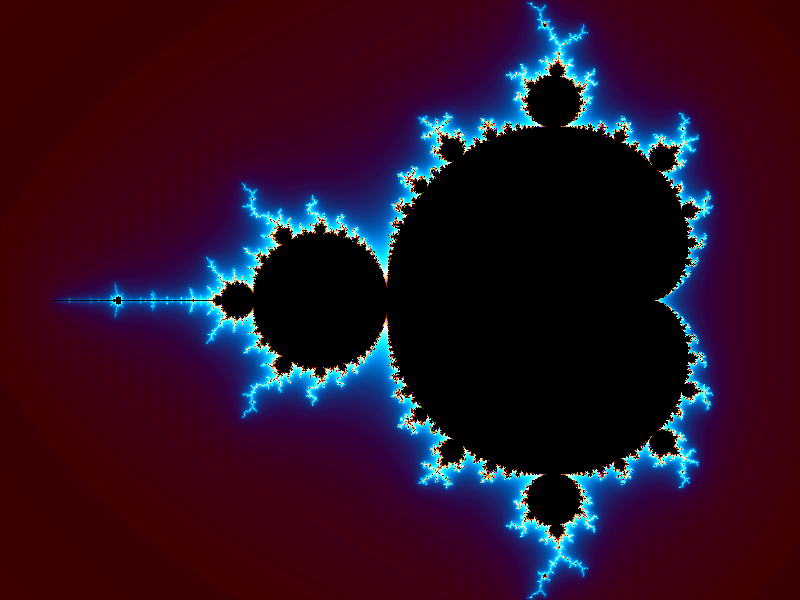
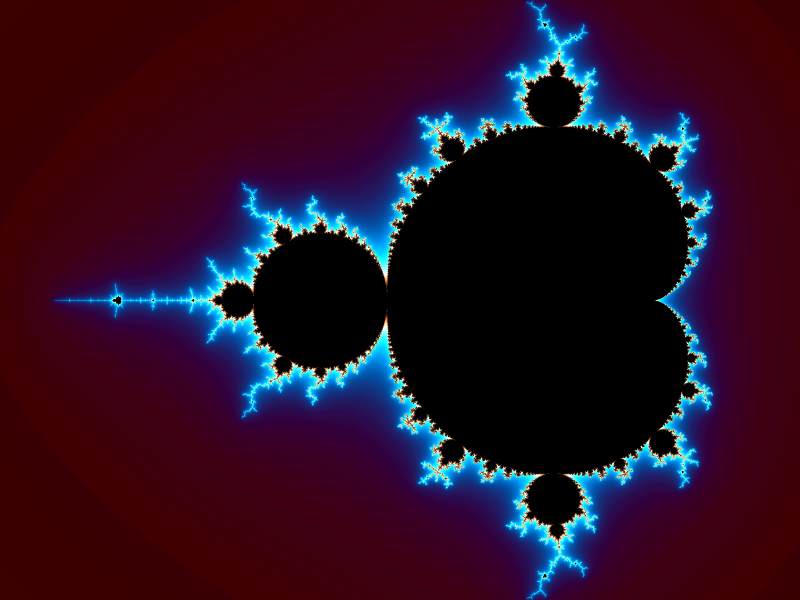
Add supersampling

diff --git a/src/main.cpp b/src/main.cpp
@@ -27,11 +27,13 @@ namespace ins
 
 bool processFile(
   boost::filesystem::path output,
-  boost::property_tree::ptree const& scene,
+  boost::property_tree::ptree const& ptree,
   TaskParameters const& pp
 )
 {
 	namespace bpt = boost::property_tree;
+
+	bool flag = false;
 
 	std::string type; // Scene type
 	Image image;
@@ -39,25 +41,33 @@ bool processFile(
 	{
 		image.width = 800;
 		image.height = 600;
-		if (auto dimensions = ptree_getArray_optional<int>(scene, "dimensions"))
+		if (auto dimensions = ptree_getArray_optional<int>(ptree, "dimensions"))
 		{
 			image.width = dimensions.get()[0];
 			image.height = dimensions.get()[1];
 		}
-		type = scene.get<std::string>("type", type);
+		type = ptree.get<std::string>("type", type);
 		image.pixelsR = new uint8_t[image.width * image.height];
 		image.pixelsG = new uint8_t[image.width * image.height];
 		image.pixelsB = new uint8_t[image.width * image.height];
 		image.pixelsA = new uint8_t[image.width * image.height];
 	}
-	// Read Gradient
+
+	std::shared_ptr<Scene> scene;
+	std::shared_ptr<Sampler> sampler;
 
 	typedef boost::gil::rgba8_image_t::value_type Pixel;
 	static_assert(sizeof(Pixel) == sizeof(uint32_t), "Must be of RGBA8 format");
 
-	if (type == "Mandelbrot")
+	Gradient gradient = readGradient(ptree, "gradient");
+
+	// Load Scene
+	if (type == "Test")
 	{
-		Gradient gradient = readGradient(scene, "gradient");
+		scene = std::shared_ptr<Scene>(new SceneTest(&gradient));
+	}
+	else if (type == "Mandelbrot")
+	{
 		real centreX = -.7;
 		real centreY = 0;
 		real radius = 1.5;
@@ -65,7 +75,7 @@ bool processFile(
 		int cycles = 16;
 		real escapeRadius = 20;
 
-		if (auto tree = scene.get_child_optional("Mandelbrot"))
+		if (auto tree = ptree.get_child_optional("Mandelbrot"))
 		{
 			if (auto centre = ptree_getArray_optional<real>(tree.get(), "centre"))
 			{
@@ -77,26 +87,43 @@ bool processFile(
 			escapeRadius = tree->get<real>("escapeRadius", escapeRadius);
 		}
 		real diffY = radius * (image.height / (real) image.width);
-		Mandelbrot m = Mandelbrot(&gradient, image.width, image.height,
-		                          complex(centreX - radius, centreY - diffY),
-		                          complex(centreX + radius, centreY + diffY),
-		                          iterations, escapeRadius);
-		Sampler s = Sampler(image.width, image.height, &m);
-		render(&image, pp, &s);
-	}
-	else if (type == "Test")
-	{
-		Gradient gradient = readGradient(scene, "gradient");
-		SceneTest st(&gradient);
-		Sampler s = Sampler(image.width, image.height, &st);
-		render(&image, pp, &s);
+		scene = std::shared_ptr<Scene>(new Mandelbrot(&gradient, image.width, image.height,
+		                               complex(centreX - radius, centreY - diffY),
+		                               complex(centreX + radius, centreY + diffY),
+		                               iterations, escapeRadius));
 	}
 	else
 	{
 		std::cerr << "Fatal: Unknown Scene type: " << type << std::endl;
-		return false;
+		goto exit;
 	}
 
+	// Load sampler
+	if (auto tSampler = ptree.get_child_optional("sampler"))
+	{
+		std::string type = tSampler->get<std::string>("type");
+		if (type == "Simple")
+		{
+			sampler = std::shared_ptr<Sampler>(new SamplerSimple(image.width, image.height, scene));
+		}
+		else if (type == "Super")
+		{
+			sampler = std::shared_ptr<Sampler>(new SamplerSuper(image.width, image.height, scene,
+			                                   tSampler->get<int>("spp", 8),
+			                                   tSampler->get<unsigned long>("seed", 0)
+			                                                   ));
+		}
+		else
+		{
+			std::cerr << "Fatal: Unknown Sampler type: " << type << std::endl;
+			goto exit;
+		}
+	}
+	else
+	{
+		sampler = std::shared_ptr<Sampler>(new SamplerSuper(image.width, image.height, scene, 8, 0));
+	}
+	render(&image, pp, sampler.get());
 	boost::gil::png_write_view(output.string(),
 	                           boost::gil::planar_rgba_view(image.width,
 	                               image.height,
@@ -107,12 +134,13 @@ bool processFile(
 	                               image.width)
 	                          );
 
+exit:
 	delete[] image.pixelsR;
 	delete[] image.pixelsG;
 	delete[] image.pixelsB;
 	delete[] image.pixelsA;
 
-	return true;
+	return flag;
 }
 
 }
@@ -137,7 +165,7 @@ int main(int argc, char* argv[])
 		("output,o", bpo::value<std::string>()->default_value(""), "Output file")
 		("input,i", bpo::value<std::string>(), "Input File")
 		("threads,t", bpo::value<int>()->default_value(0, "Automatic"), "Number of Threads")
-		("bucketsize,b", bpo::value<int>()->default_value(16), "Size of Rendering Chunk")
+		("bucketsize,b", bpo::value<int>()->default_value(32), "Size of Rendering Chunk")
 		;
 		bpo::store(bpo::parse_command_line(argc, argv, desc), options);
 
@@ -166,10 +194,10 @@ int main(int argc, char* argv[])
 	pp.nThreads = options["threads"].as<int>();
 	pp.bucketSize = options["bucketsize"].as<int>();
 
-	boost::property_tree::ptree scene;
-	boost::property_tree::read_json(input.c_str(), scene);
+	boost::property_tree::ptree ptree;
+	boost::property_tree::read_json(input.c_str(), ptree);
 
-	if (processFile(output, scene, pp))
+	if (processFile(output, ptree, pp))
 		return EXIT_NORMAL;
 	else
 		return EXIT_FAILURE;

diff --git a/src/sampling.hpp b/src/sampling.hpp
@@ -1,0 +1,70 @@
+#ifndef INSULA__SAMPLING_HPP_
+#define INSULA__SAMPLING_HPP_
+
+#include <memory>
+#include <random>
+
+#include "util/vector.hpp"
+#include "scene/Scene.hpp"
+
+namespace ins
+{
+
+class Sampler
+{
+public:
+	Sampler(int width, int height, std::shared_ptr<Scene> scene):
+		width(width), height(height),
+		invWidth(1 / (real) width), invHeight(1 / (real) height),
+		scene(scene)
+	{}
+	virtual ~Sampler() = default;
+
+	/**
+	 * @brief Obtain the color at the given pixel coordinates
+	 */
+	virtual Color4 at(Vector2i const&) const = 0;
+
+protected:
+	int width, height;
+	real invWidth, invHeight;
+	std::shared_ptr<Scene> scene;
+};
+
+/**
+ * @brief Renders with only one sample/pixel.
+ */
+class SamplerSimple final: public Sampler
+{
+public:
+	SamplerSimple(int width, int height, std::shared_ptr<Scene> scene):
+		Sampler(width, height, scene)
+	{
+	}
+
+	Color4 at(Vector2i const&) const override;
+};
+
+class SamplerSuper final: public Sampler
+{
+public:
+	/**
+	 * @param[in] spp Sample/Pixel
+	 */
+	SamplerSuper(int width, int height, std::shared_ptr<Scene> scene,
+	             int spp, unsigned long seed);
+	~SamplerSuper();
+
+	Color4 at(Vector2i const&) const override;
+private:
+	static std::uniform_real_distribution<real> randDist;
+
+	int spp;
+	real invSpp;
+	real* samplesX;
+	real* samplesY;
+};
+
+} // namespace ins
+
+#endif // !INSULA__SAMPLING_HPP_

diff --git a/src/sampling.cpp b/src/sampling.cpp
@@ -1,0 +1,53 @@
+#include "sampling.hpp"
+
+#include <cassert>
+#include <iostream>
+
+namespace ins
+{
+
+Color4 SamplerSimple::at(Vector2i const& v) const
+{
+	complex z(
+	  v.x() / (real) width,
+	  v.y() / (real) height
+	);
+	return scene->sample(z);
+}
+
+std::uniform_real_distribution<real> SamplerSuper::randDist(-.5, .5);
+
+SamplerSuper::SamplerSuper(int width, int height, std::shared_ptr<Scene> scene,
+                           int spp, unsigned long seed):
+	Sampler(width, height, scene), spp(spp), invSpp(1 / (real) spp),
+	samplesX(new real[spp]), samplesY(new real[spp])
+{
+	assert(spp > 0);
+	std::mt19937 engine(seed);
+	for (int i = 0; i < spp; ++i)
+	{
+		samplesX[i] = randDist(engine);
+		samplesY[i] = randDist(engine);
+	}
+}
+SamplerSuper::~SamplerSuper()
+{
+	delete[] samplesX;
+	delete[] samplesY;
+}
+Color4 SamplerSuper::at(Vector2i const& v) const
+{
+	Color4 sample(0, 0, 0, 0);
+	for (int i = 0; i < spp; ++i)
+	{
+		complex z(
+		  (v.x() + samplesX[i]) / (real) width,
+		  (v.y() + samplesY[i]) / (real) height
+		);
+		sample += scene->sample(z);
+	}
+	sample *= invSpp;
+	return sample;
+}
+
+} // namespace ins

diff --git a/src/integration.hpp b/src/integration.hpp
@@ -3,34 +3,19 @@
 
 #include <functional>
 
+#include "sampling.hpp"
 #include "core/Image.hpp"
 #include "core/TaskParameters.hpp"
 #include "core/insula.hpp"
-#include "scene/Scene.hpp"
 
 namespace ins
 {
 
-class Sampler
-{
-public:
-	Sampler(int width, int height, Scene* scene):
-		width(width), height(height),
-		scene(scene)
-	{}
-
-	Color4 at(Vector2i const&) const;
-private:
-	int width, height;
-	Scene* scene;
-};
-
-
 /**
+ * @brief Renders the image using the given sampler.
  * @warning Image must be pre-allocated
  */
-void render(Image* const, TaskParameters const&,
-            Sampler* const);
+void render(Image* const, TaskParameters const&, Sampler* const);
 
 
 } // namespace ins

diff --git a/src/util/vector.hpp b/src/util/vector.hpp
@@ -75,6 +75,24 @@ operator*(T l, Vector4<T> const& v) noexcept
 {
 	return Vector4<T>(l * v(0), l * v(1), l * v(2), l * v(3));
 }
+template <typename T> inline Vector4<T>&
+operator+=(Vector4<T>& v0, Vector4<T> const& v1) noexcept
+{
+	v0(0) += v1(0);
+	v0(1) += v1(1);
+	v0(2) += v1(2);
+	v0(3) += v1(3);
+	return v0;
+}
+template <typename T> inline Vector4<T>&
+operator*=(Vector4<T>& v, T l) noexcept
+{
+	v(0) *= l;
+	v(1) *= l;
+	v(2) *= l;
+	v(3) *= l;
+	return v;
+}
 template <typename T> constexpr Vector4<T>
 clamp01(Vector4<T> const& v) noexcept
 {

diff --git a/src/integration.cpp b/src/integration.cpp
@@ -8,14 +8,6 @@
 namespace ins
 {
 
-Color4 Sampler::at(Vector2i const& v) const
-{
-	complex z(
-	  v.x() / (real) width,
-	  v.y() / (real) height
-	);
-	return scene->sample(z);
-}
 void render(Image* const image, TaskParameters const& pp,
             Sampler* const sampler)
 {

diff --git a/src/scene/Scene.hpp b/src/scene/Scene.hpp
@@ -10,7 +10,7 @@ namespace ins
 class Scene
 {
 public:
-	~Scene() = default;
+	virtual ~Scene() = default;
 	/**
 	 * @brief Obtain 1 sample from the coordinate z.
 	 * @param[in] A complex number within [0,1] x [0,1]

diff --git a/README.md b/README.md
@@ -66,6 +66,26 @@ Each color point in `colors` have 5 values within the range `[0,1]`: Control is
 the independent variable, and `R,G,B,A` are the dependent variables.
 Barycentric rational interpolation is used to interpolate the gradient.
 
+### Sampler
+
+There are two types of samplers available. To explicitly use a sampler, add
+```json
+"sampler": {
+	"type": <Type>,
+	...
+}
+```
+1. "Simple": 1 sample/pixel sampler.
+2. "Super": Several samples/pixel.
+```json
+"sampler": {
+	"type": "Super",
+	"spp": <Samples-per-pixel>,
+	"seed": <Random-seed>
+},
+```
+![Simple vs Super](doc/supersampling.png)
+
 ## Building
 
 It is best to do an out of source build at `build/` directory. Create a
